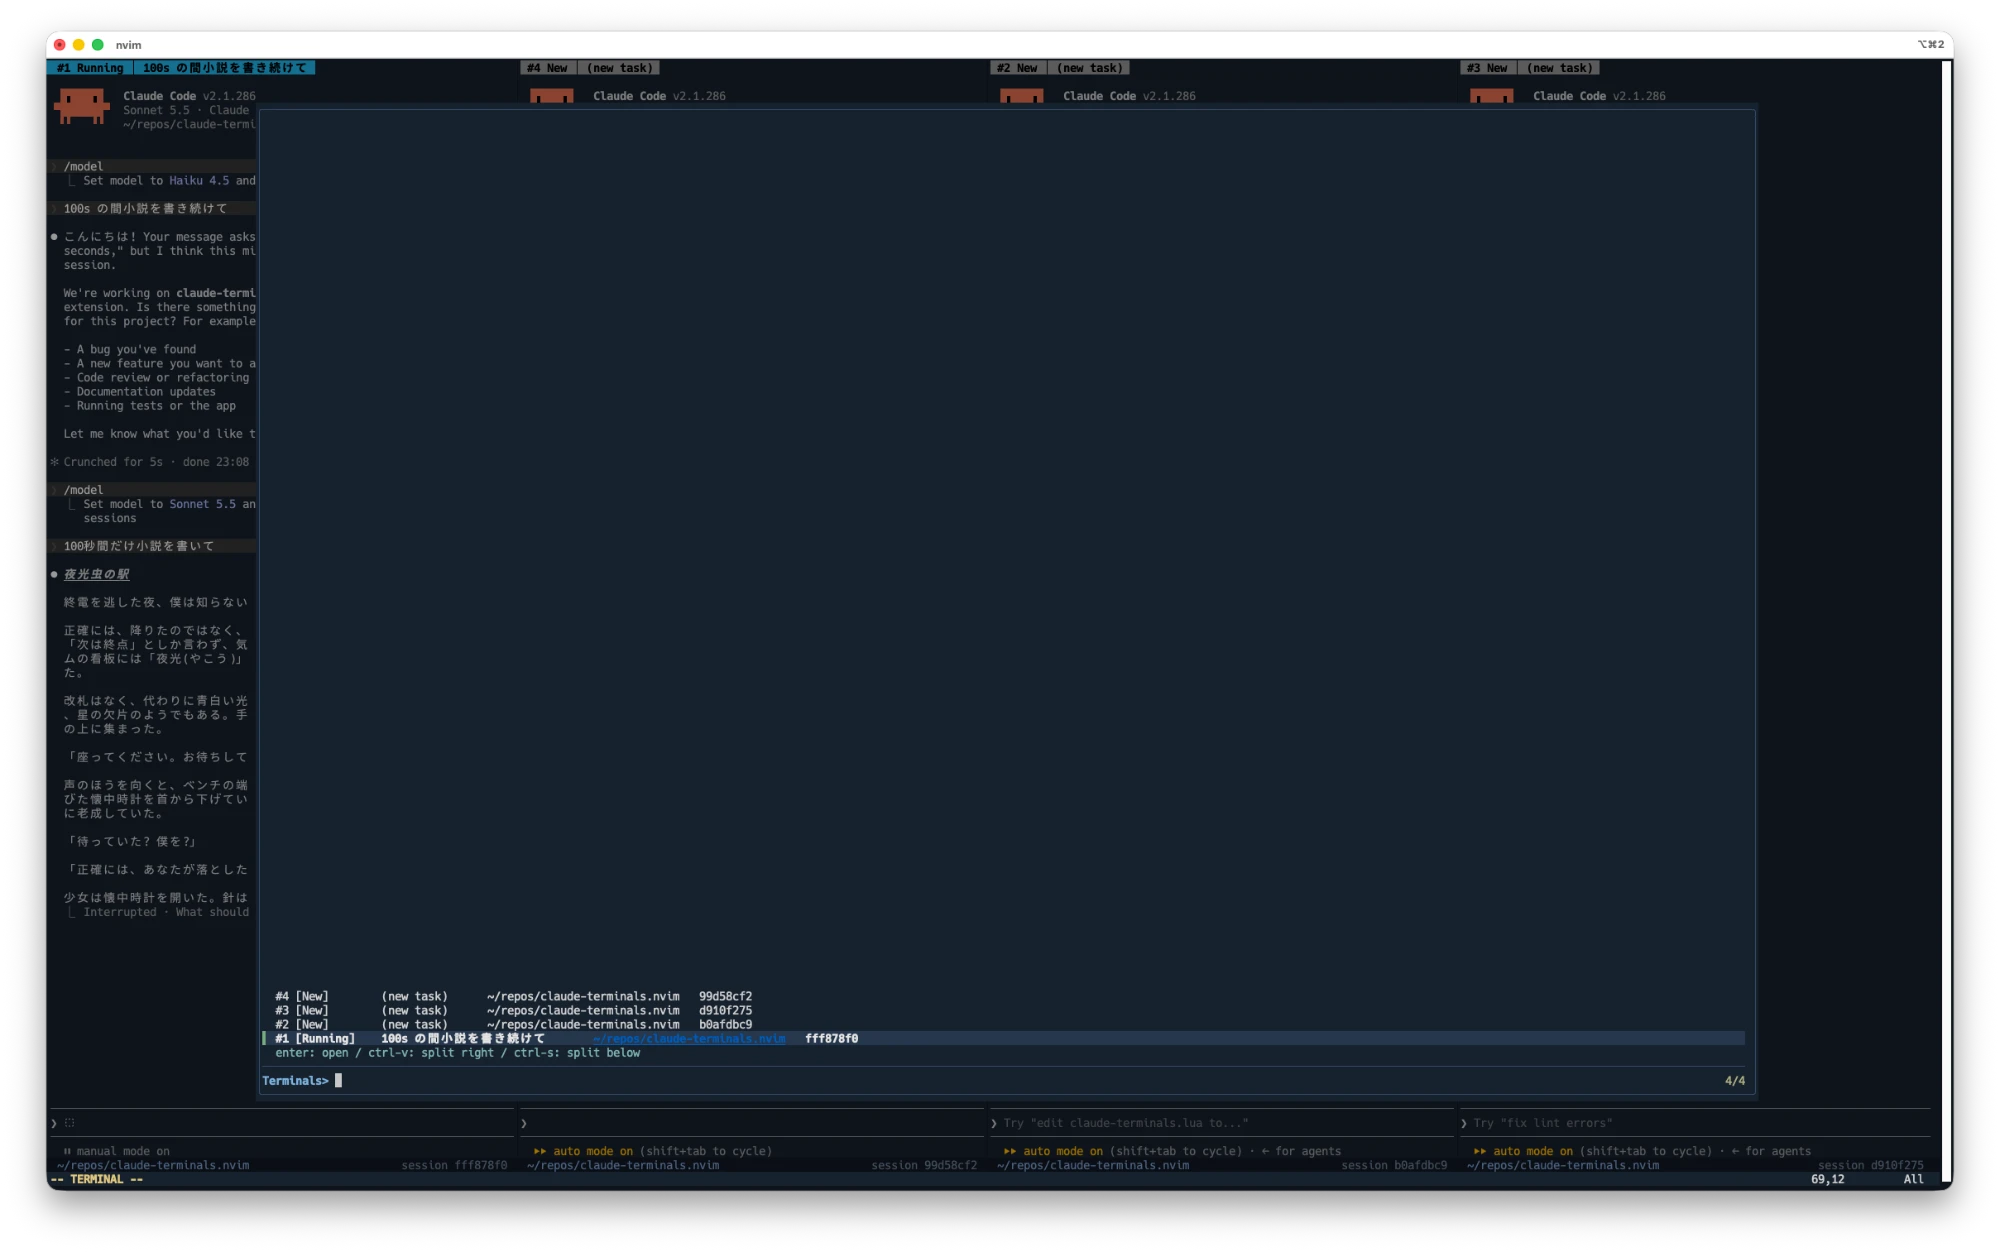
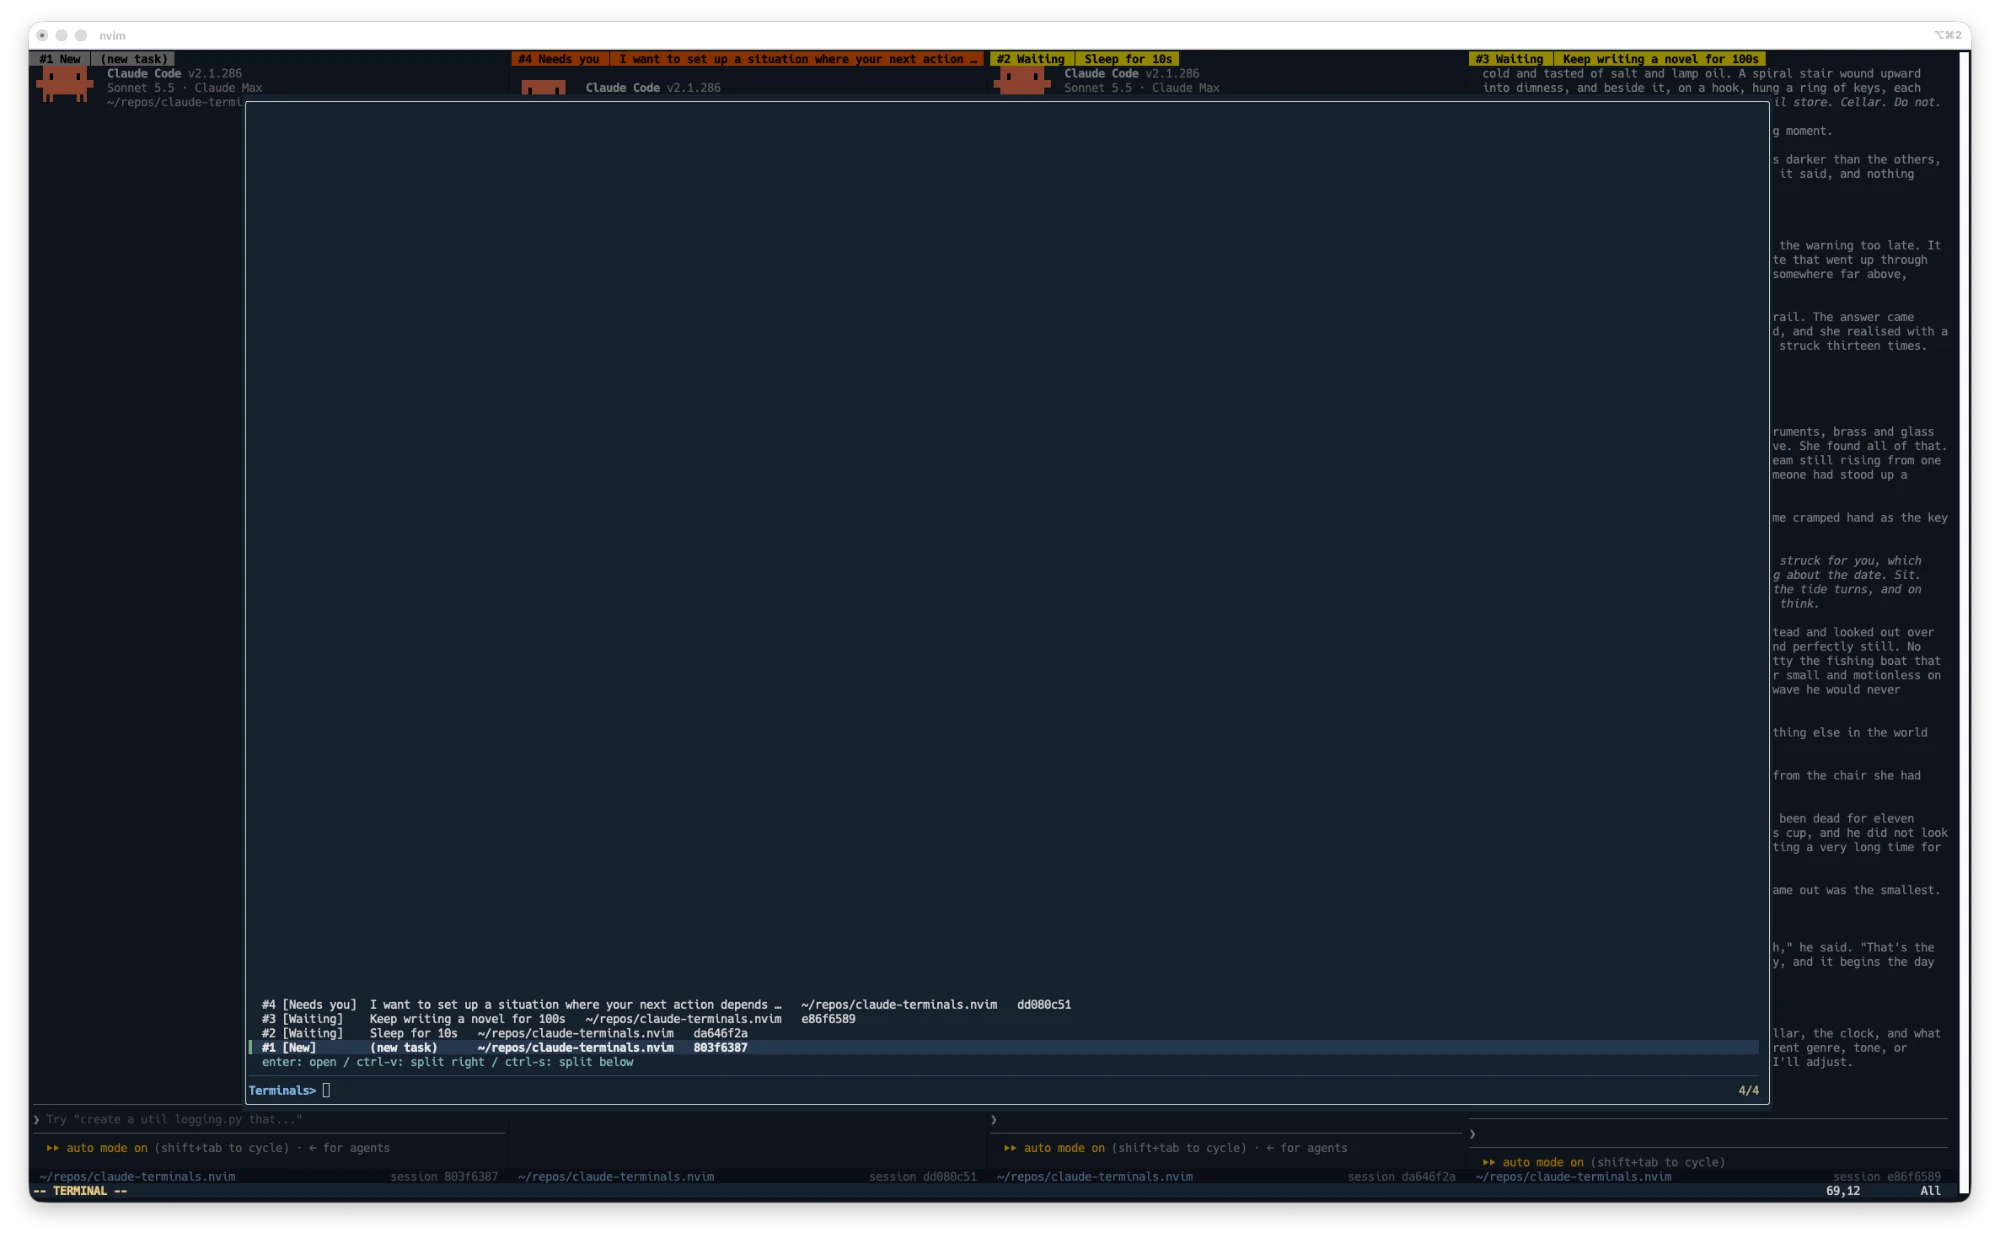
Use an English screenshot for the terminal list in the English README

Changed region(s): [[0.0, 0.0, 0.992, 0.9822]]

diff --git a/README.ja.md b/README.ja.md
@@ -89,7 +89,7 @@ opts = {
 
 fzf-lua のピッカーでは、`enter` で上のルールどおりに開き、`ctrl-v` で右に、`ctrl-s` で下に分割して開きます。
 
-![fzf-lua でのターミナル一覧](docs/images/list.webp)
+![fzf-lua でのターミナル一覧](docs/images/ja/list.webp)
 
 #### 集中モード
 
